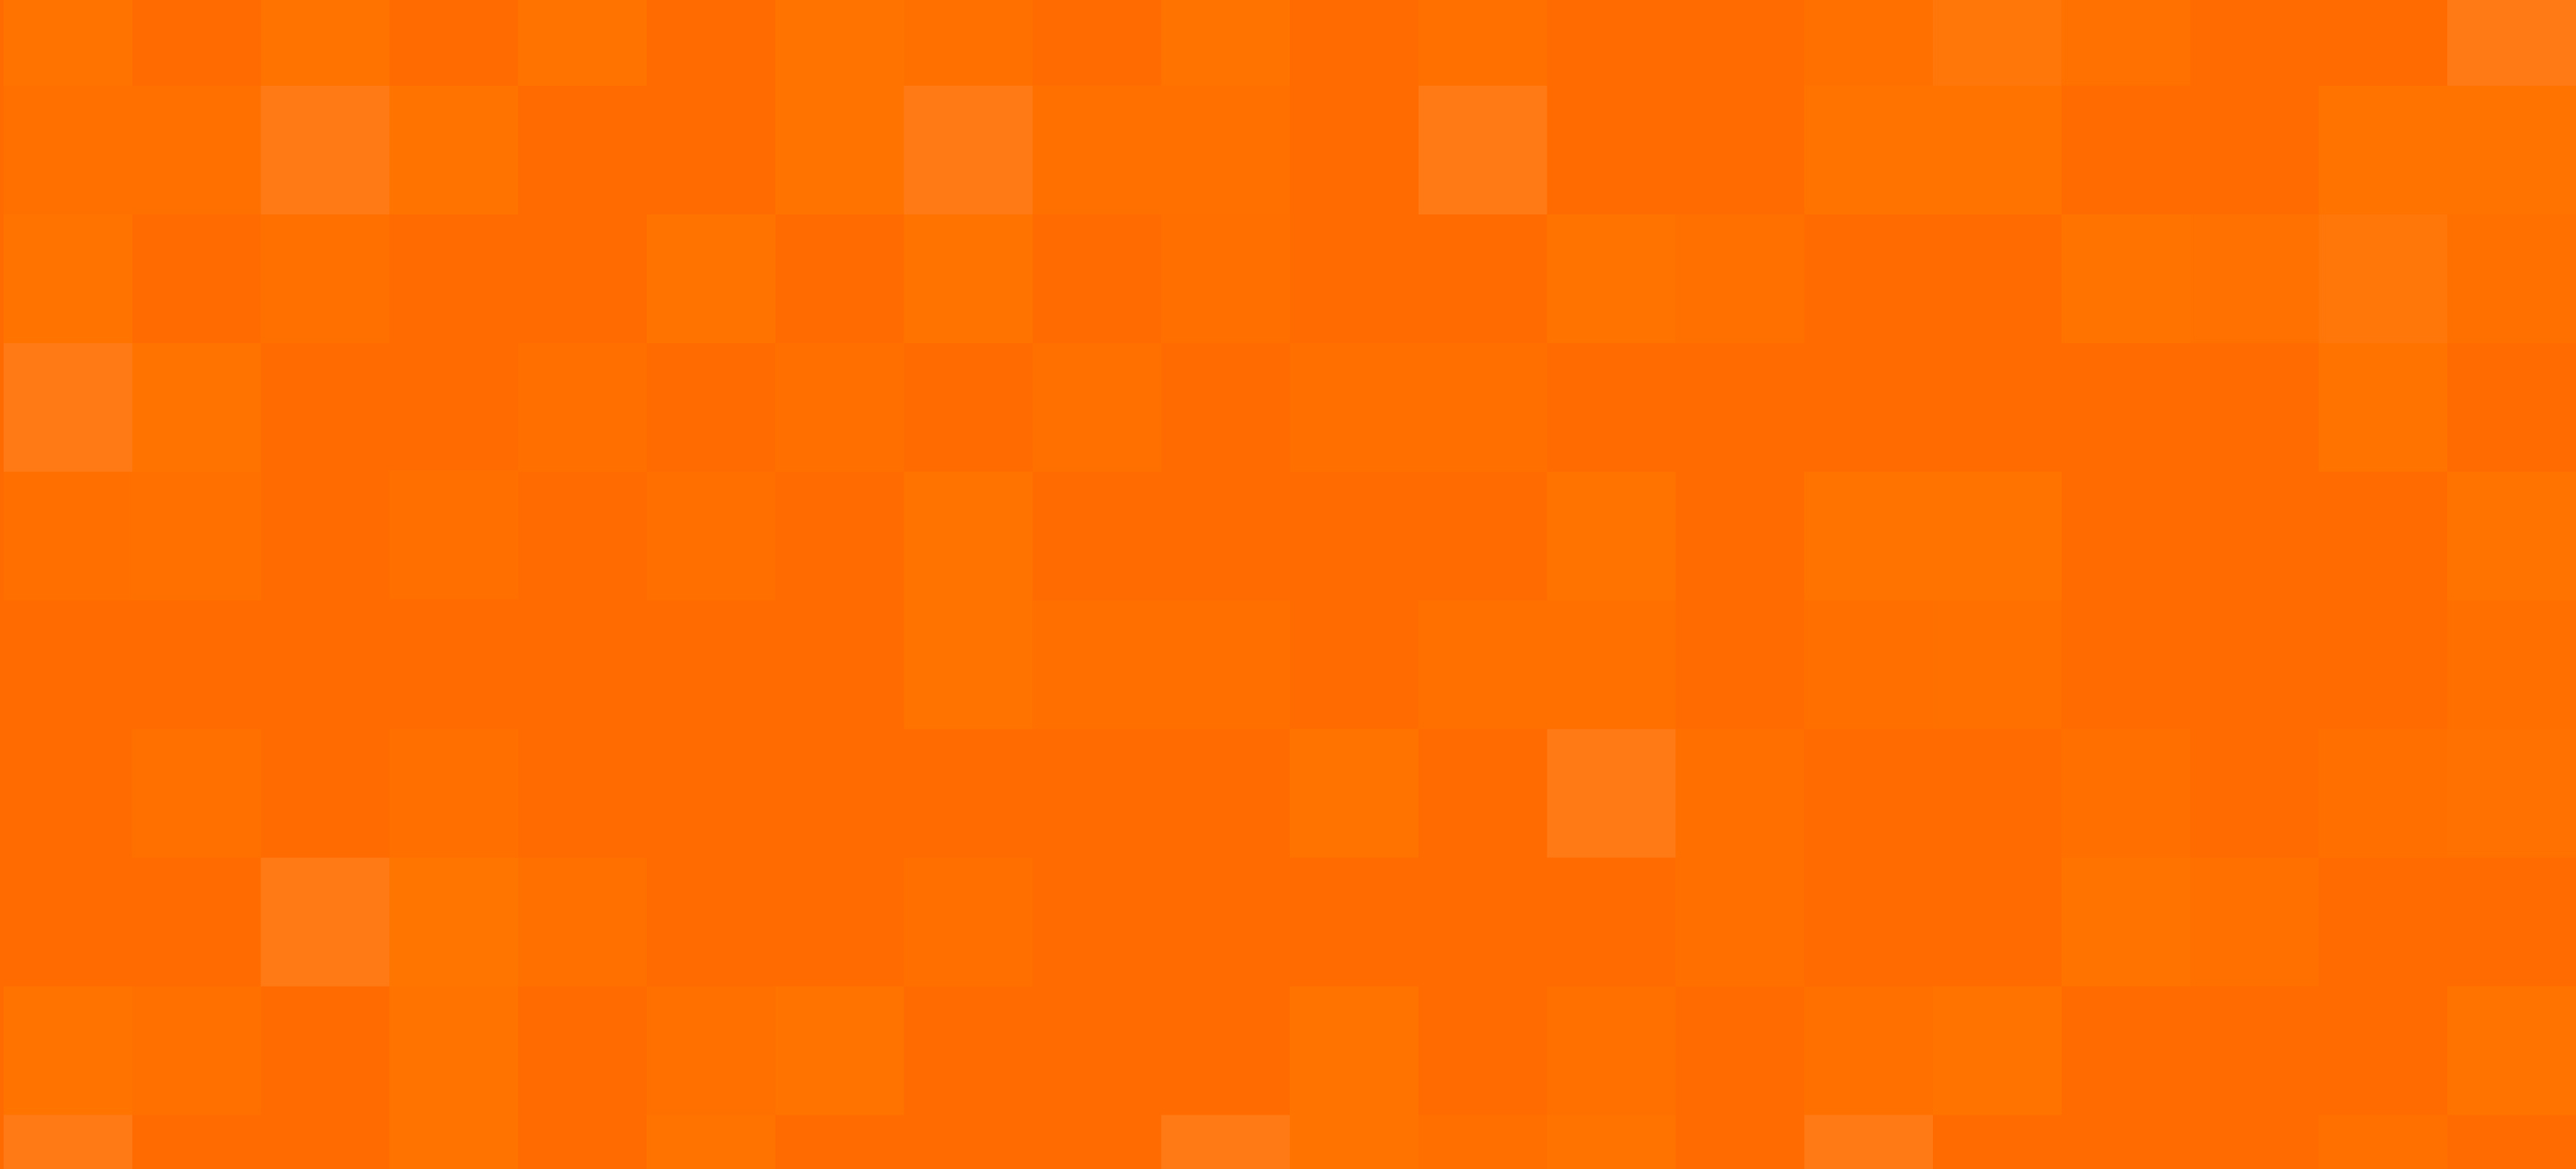
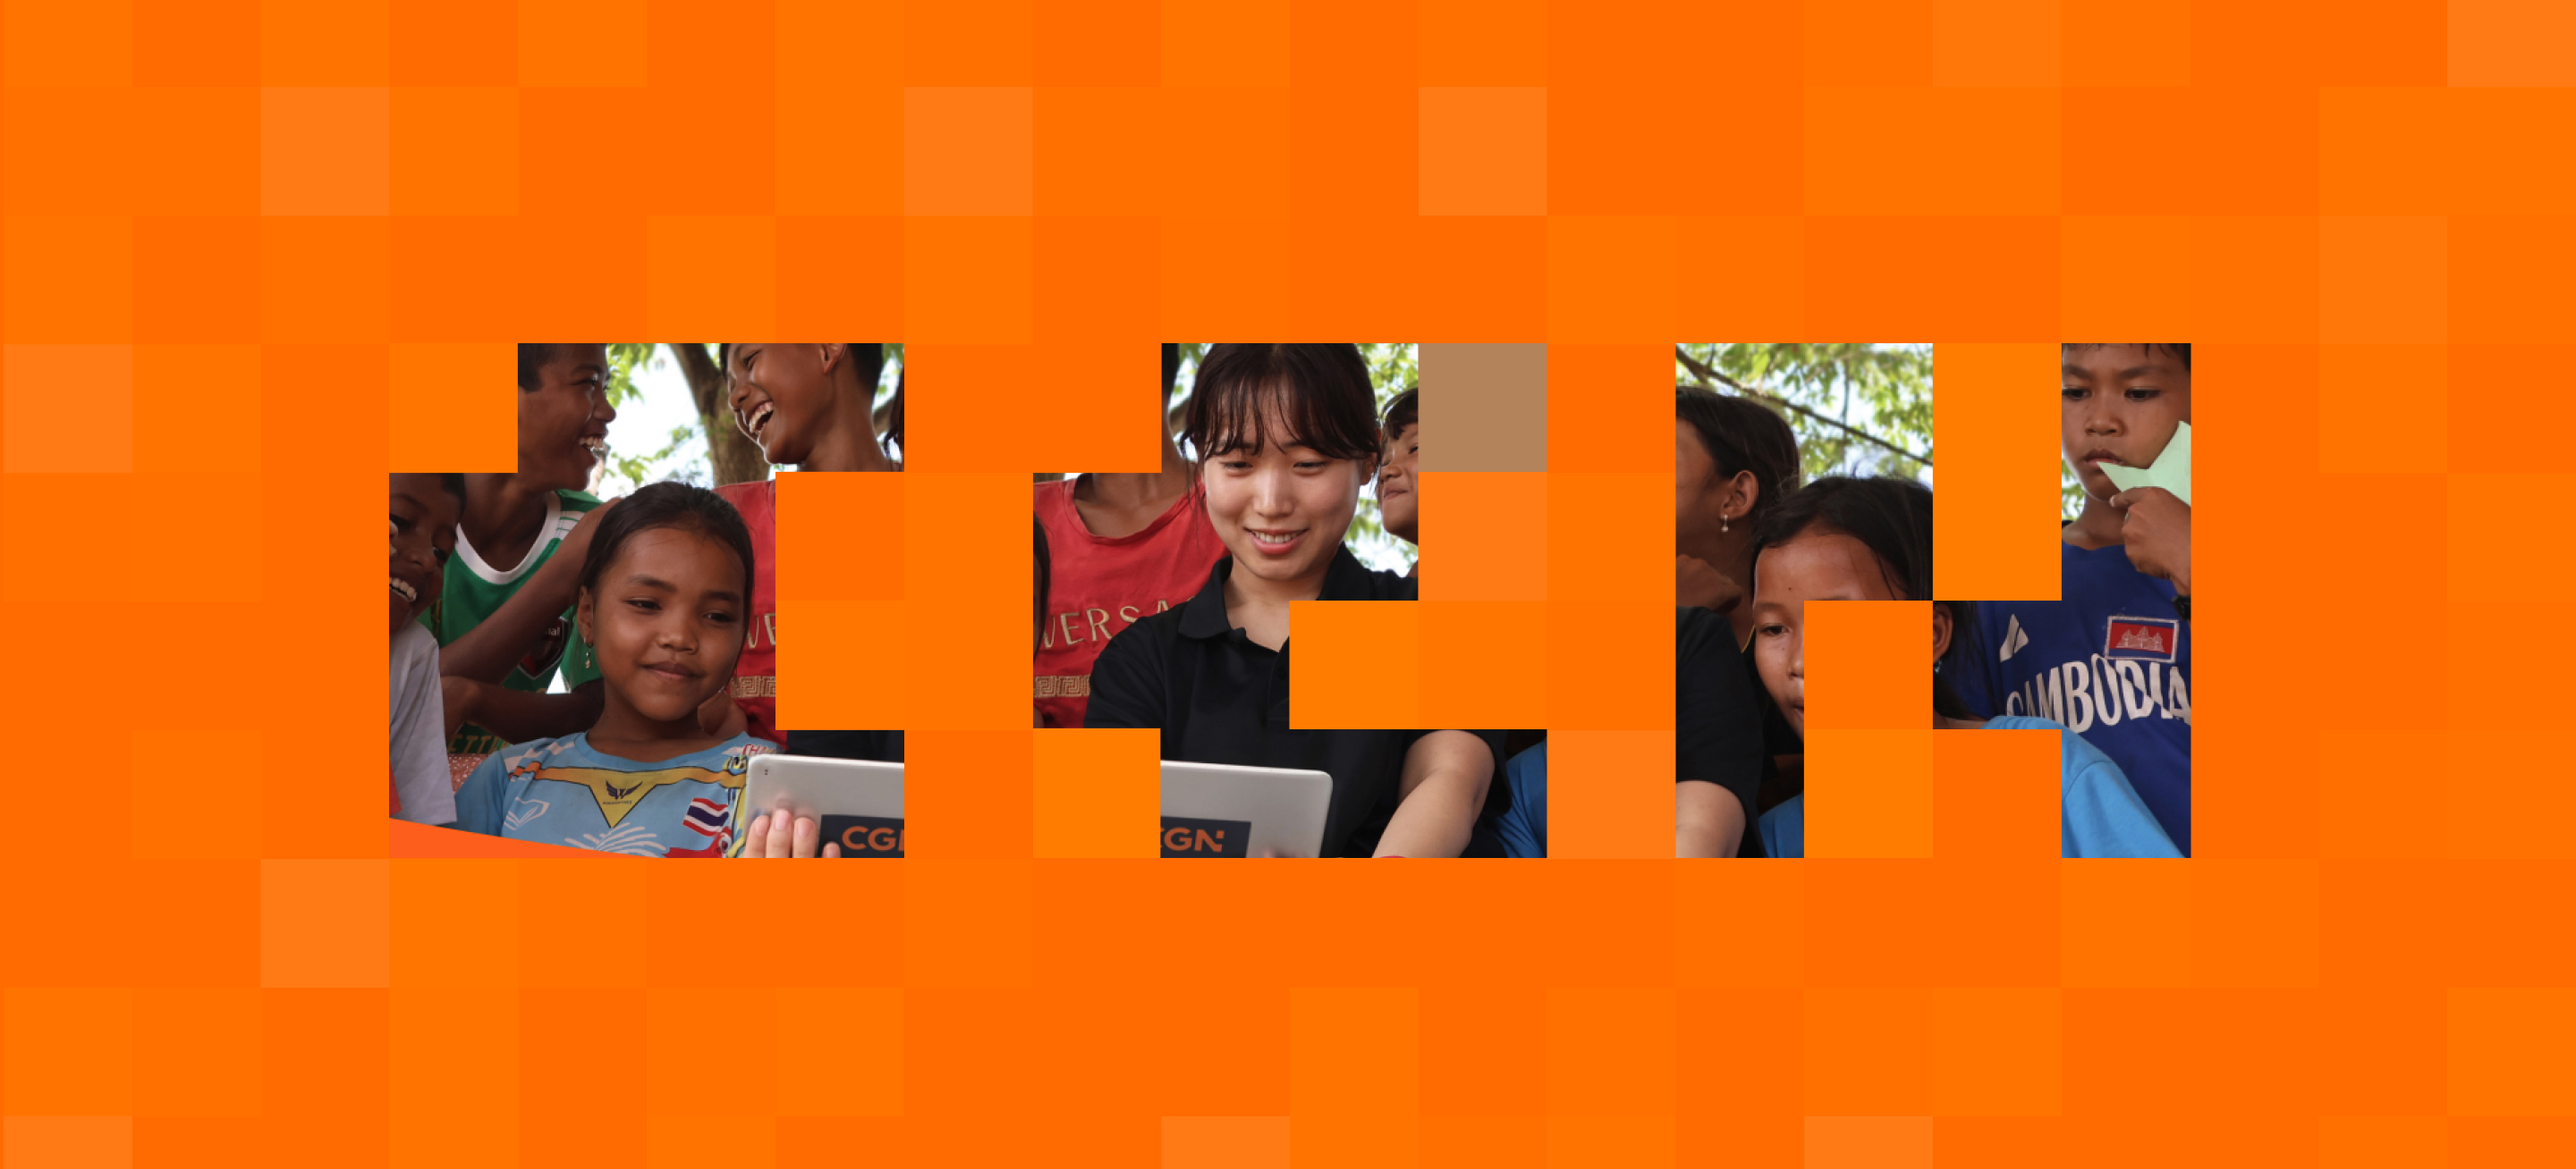
후원페이지 작업중

Changed region(s): [[0.375, 0.2752, 0.875, 0.7339], [0.125, 0.2752, 0.375, 0.7339]]

diff --git a/src/components/introducesupport/main/tabBroadcastPlatform.tsx b/src/components/introducesupport/main/tabBroadcastPlatform.tsx
@@ -1,8 +1,69 @@
 import React, { useEffect, useState } from 'react';
+import { motion } from 'framer-motion';
 
 const TabBroadcastPlatform = props => {
   const { setSupportTab } = props;
-  return <></>;
+
+  return (
+    <div
+      className='relative flex w-full flex-col items-center justify-center bg-no-repeat max-lg:h-820 max-lg:bg-[#E9E7E4]'
+      style={{
+        backgroundImage: `url(${import.meta.env.VITE_PUBLIC_URL}images/introducesupport/pc_main_bg_tab.jpg)`,
+      }}
+    >
+      <button
+        className='fixed right-60 top-60 flex h-60 w-60 items-center justify-center rounded-60 bg-white-solid max-lg:right-16 max-lg:top-80 max-lg:h-40 max-lg:w-40'
+        onClick={() => setSupportTab(null)}
+      >
+        <img
+          src={`${import.meta.env.VITE_PUBLIC_URL}images/introducesupport/close.svg`}
+          alt=''
+          className='h-24 w-24'
+        />
+      </button>
+      <div className=''></div>
+      <div className=''></div>
+      <div className=''></div>
+      <div className=''></div>
+      <div className='flex flex-col items-center'>
+        <div className='text-bold48 max-lg:text-bold32 mb-40 max-lg:mb-24'>
+          방송 & 플랫폼 후원
+        </div>
+        <div className='text-center max-lg:mb-60'>
+          <span className='text-regular16'>
+            어디서나 모두에게 <span className='text-bold16'>복음</span>을 전하기
+            위해
+            <br />
+            <span className='text-bold16'>
+              CGN은 TV방송, OTT플랫폼 ‘퐁당', 유튜브
+            </span>{' '}
+            등
+            <br />
+            사용자의 편의에 맞춰 다양한 플랫폼으로
+            <br />
+            콘텐츠를 나눌 수 있습니다.
+            <br />
+            <span className='text-bold16'>선교지 어디서든</span>
+            복음을 접할 수 있도록
+            <br />
+            <span className='text-bold16'>방송</span>과{' '}
+            <span className='text-bold16'>플랫폼 사역</span>을 위해 후원해주세요
+          </span>
+        </div>
+        <div className='hidden gap-4 max-lg:flex'>
+          <button className='text-bold14 h-40 w-80 rounded-4 bg-primary-500 text-white-solid'>
+            정기후원
+          </button>
+          <button className='text-bold14 h-40 w-80 rounded-4 bg-primary-500 text-white-solid'>
+            증액후원
+          </button>
+          <button className='text-bold14 h-40 w-80 rounded-4 bg-primary-500 text-white-solid'>
+            일시후원
+          </button>
+        </div>
+      </div>
+    </div>
+  );
 };
 
 export default TabBroadcastPlatform;

diff --git a/src/components/introducesupport/main/tabContents.tsx b/src/components/introducesupport/main/tabContents.tsx
@@ -2,7 +2,46 @@ import React, { useEffect, useState } from 'react';
 
 const TabContents = props => {
   const { setSupportTab } = props;
-  return <></>;
+  return (
+    <div className='relative w-full max-lg:h-820 max-lg:bg-[#E9E7E4]'>
+      <button
+        className='absolute right-60 top-60 flex h-60 w-60 items-center justify-center rounded-60 bg-white-solid max-lg:right-16 max-lg:top-22 max-lg:h-40 max-lg:w-40'
+        onClick={() => setSupportTab(null)}
+      >
+        <img
+          src={`${import.meta.env.VITE_PUBLIC_URL}images/introducesupport/close.svg`}
+          alt=''
+          className='h-24 w-24'
+        />
+      </button>
+      <div className=''></div>
+      <div className=''></div>
+      <div className=''></div>
+      <div className=''></div>
+      <div className=''>
+        <div className=''>방송 & 플랫폼 후원</div>
+        <div className='flex'>
+          <button className=''>정기후원</button>
+          <button className=''>증액후원</button>
+          <button className=''>일시후원</button>
+        </div>
+        <div className=''>
+          <span className=''>어디서나 모두에게 복음 을 전하기 위해</span>
+          <span className=''>
+            <span className=''>CGN</span>은{' '}
+            <span className=''>TV방송, OTT플랫폼 ‘퐁당’ ,유튜브</span> 등
+            사용자의 편의에 맞춰
+          </span>
+          <span className=''>다양한 플랫폼으로 콘텐츠를 나누고 있습니다.</span>
+          <span className=''>
+            <span className=''>선교지 어디서든</span> 복음을 접할 수 있도록{' '}
+            <span className=''>방송</span>과{' '}
+            <span className=''>플랫폼 사역</span>을 위해 후원해주세요.
+          </span>
+        </div>
+      </div>
+    </div>
+  );
 };
 
 export default TabContents;

diff --git a/src/components/introducesupport/main/tabGlobal.tsx b/src/components/introducesupport/main/tabGlobal.tsx
@@ -2,7 +2,46 @@ import React, { useEffect, useState } from 'react';
 
 const TabGlobal = props => {
   const { setSupportTab } = props;
-  return <></>;
+  return (
+    <div className='relative w-full max-lg:h-820 max-lg:bg-[#E9E7E4]'>
+      <button
+        className='absolute right-60 top-60 flex h-60 w-60 items-center justify-center rounded-60 bg-white-solid max-lg:right-16 max-lg:top-22 max-lg:h-40 max-lg:w-40'
+        onClick={() => setSupportTab(null)}
+      >
+        <img
+          src={`${import.meta.env.VITE_PUBLIC_URL}images/introducesupport/close.svg`}
+          alt=''
+          className='h-24 w-24'
+        />
+      </button>
+      <div className=''></div>
+      <div className=''></div>
+      <div className=''></div>
+      <div className=''></div>
+      <div className=''>
+        <div className=''>방송 & 플랫폼 후원</div>
+        <div className='flex'>
+          <button className=''>정기후원</button>
+          <button className=''>증액후원</button>
+          <button className=''>일시후원</button>
+        </div>
+        <div className=''>
+          <span className=''>어디서나 모두에게 복음 을 전하기 위해</span>
+          <span className=''>
+            <span className=''>CGN</span>은{' '}
+            <span className=''>TV방송, OTT플랫폼 ‘퐁당’ ,유튜브</span> 등
+            사용자의 편의에 맞춰
+          </span>
+          <span className=''>다양한 플랫폼으로 콘텐츠를 나누고 있습니다.</span>
+          <span className=''>
+            <span className=''>선교지 어디서든</span> 복음을 접할 수 있도록{' '}
+            <span className=''>방송</span>과{' '}
+            <span className=''>플랫폼 사역</span>을 위해 후원해주세요.
+          </span>
+        </div>
+      </div>
+    </div>
+  );
 };
 
 export default TabGlobal;

diff --git a/src/components/introducesupport/main/pcMainVisual.tsx b/src/components/introducesupport/main/pcMainVisual.tsx
@@ -1,22 +1,52 @@
 import React from 'react';
+import { motion } from 'framer-motion';
 
 const PcMainVisual = props => {
   const { setSupportTab } = props;
+
+  // 애니메이션을 순차적으로 시작하려면 `variants`를 설정합니다.
+  const itemVariants1 = {
+    hidden: { opacity: 1 }, // 초기 상태
+    visible: {
+      opacity: 0,
+      transition: {
+        duration: 1, // 애니메이션의 시간
+        delay: 5,
+      },
+    },
+  };
+
+  const containerVariants = {
+    hidden: {},
+    visible: {
+      transition: {
+        staggerChildren: 0.3,
+      },
+    },
+  };
+
   return (
-    <div className='relative aspect-[2100_/_960] w-full'>
-      <div
-        className='aspect-[2100_/_960] w-full bg-cover bg-top bg-repeat'
-        style={{
-          backgroundImage: `url(${import.meta.env.VITE_PUBLIC_URL}images/introducesupport/pc_main_bg2.jpg)`,
-        }}
-      ></div>
+    <motion.div
+      className='relative aspect-[2100_/_960] w-full'
+      initial='hidden'
+      animate='visible'
+      variants={containerVariants}
+    >
       <div
         className='absolute top-0 aspect-[2100_/_960] w-full bg-cover bg-top bg-repeat'
         style={{
           backgroundImage: `url(${import.meta.env.VITE_PUBLIC_URL}images/introducesupport/pc_main_bg.jpg)`,
         }}
       ></div>
-    </div>
+      <motion.div
+        className='absolute top-0 aspect-[2100_/_960] w-full bg-cover bg-top bg-repeat'
+        variants={itemVariants1}
+        style={{
+          backgroundImage: `url(${import.meta.env.VITE_PUBLIC_URL}images/introducesupport/pc_main_bg2.jpg)`,
+        }}
+      ></motion.div>
+      <motion.div className=''></motion.div>
+    </motion.div>
   );
 };
 export default PcMainVisual;

diff --git a/src/components/introducesupport/main/moMainVisual.tsx b/src/components/introducesupport/main/moMainVisual.tsx
@@ -5,12 +5,12 @@ const MoMainVisual = props => {
   const { setSupportTab } = props;
   // 애니메이션을 순차적으로 시작하려면 `variants`를 설정합니다.
   const itemVariants = {
-    hidden: { opacity: 0, y: -50 }, // 초기 상태 (위에서 내려오지 않음, 투명도 0)
+    hidden: { opacity: 0, y: -30 }, // 초기 상태 (위에서 내려오지 않음, 투명도 0)
     visible: {
       opacity: 1,
       y: 0, // y축 이동을 통해 slide down 효과
       transition: {
-        duration: 0.8, // 애니메이션의 시간
+        duration: 0.5, // 애니메이션의 시간
       },
     },
   };
@@ -19,7 +19,7 @@ const MoMainVisual = props => {
     hidden: {},
     visible: {
       transition: {
-        staggerChildren: 0.4, // 자식 요소들이 순차적으로 애니메이션 시작
+        staggerChildren: 0.3, // 자식 요소들이 순차적으로 애니메이션 시작
       },
     },
   };
